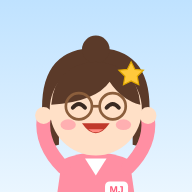
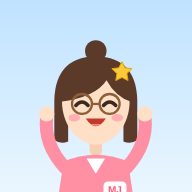
맞힘 팡파르, 박수 소리 제거, MJ선생님 얼굴 갸름하게·머리 작게
Claude-Session: https://claude.ai/code/session_01HtEVcaKpFcXTMcnbUXu1Jp

Changed region(s): [[0.1562, 0.1875, 0.8125, 1.0], [0.5312, 0.9062, 0.7188, 1.0]]

diff --git a/index.html b/index.html
@@ -154,7 +154,7 @@ body{-webkit-tap-highlight-color:transparent;touch-action:manipulation;overscrol
 <script>
 {
 /* ---------- 저장 ---------- */
-const APP_VER='2026.11.17-7';
+const APP_VER='2026.11.17-8';
 const KEY='mjEnglishReview.v1';
 const DEF={settings:{name:'예준',pin:'1234',pass:70,rate:0.85,voice:''},words:{},sessions:[],custom:[],hidden:[],over:{},resume:{}};
 let S;
@@ -183,33 +183,34 @@ const josa=n=>{const c=n.charCodeAt(n.length-1);return (c>=0xAC00&&c<=0xD7A3&&(c
 
 /* ---------- MJ선생님 ---------- */
 function mj(mood='happy',w=150){
-  const eyes={happy:'<path d="M70 98q8-9 16 0M114 98q8-9 16 0" stroke="#3a2a22" stroke-width="5" fill="none" stroke-linecap="round"/>',
-    wow:'<circle cx="78" cy="98" r="7" fill="#3a2a22"/><circle cx="122" cy="98" r="7" fill="#3a2a22"/><circle cx="80" cy="95" r="2.5" fill="#fff"/><circle cx="124" cy="95" r="2.5" fill="#fff"/>',
-    think:'<circle cx="78" cy="99" r="6" fill="#3a2a22"/><circle cx="122" cy="99" r="6" fill="#3a2a22"/><path d="M66 82l20-4M112 78l20 4" stroke="#5B3A29" stroke-width="4" stroke-linecap="round"/>',
-    cheer:'<path d="M70 100q8-10 16 0M114 100q8-10 16 0" stroke="#3a2a22" stroke-width="5" fill="none" stroke-linecap="round"/>',
-    hug:'<path d="M70 98q8 7 16 0M114 98q8 7 16 0" stroke="#3a2a22" stroke-width="5" fill="none" stroke-linecap="round"/>'}[mood];
-  const mouth={happy:'<path d="M86 124q14 14 28 0" stroke="#c0392b" stroke-width="5" fill="#ff8a80" stroke-linecap="round"/>',
-    wow:'<ellipse cx="100" cy="128" rx="9" ry="11" fill="#c0392b"/>',
-    think:'<path d="M90 128h18" stroke="#c0392b" stroke-width="5" stroke-linecap="round"/>',
-    cheer:'<path d="M82 120q18 26 36 0z" fill="#c0392b"/><path d="M90 128q10 8 20 0" fill="#ff8a80"/>',
-    hug:'<path d="M88 124q12 10 24 0" stroke="#c0392b" stroke-width="5" fill="none" stroke-linecap="round"/>'}[mood];
+  const eyes={happy:'<path d="M74 95q8-8 16 0M110 95q8-8 16 0" stroke="#3a2a22" stroke-width="4.5" fill="none" stroke-linecap="round"/>',
+    wow:'<circle cx="82" cy="95" r="6" fill="#3a2a22"/><circle cx="118" cy="95" r="6" fill="#3a2a22"/><circle cx="84" cy="93" r="2" fill="#fff"/><circle cx="120" cy="93" r="2" fill="#fff"/>',
+    think:'<circle cx="82" cy="96" r="5" fill="#3a2a22"/><circle cx="118" cy="96" r="5" fill="#3a2a22"/><path d="M72 79l17-3M111 76l17 3" stroke="#5B3A29" stroke-width="3.5" stroke-linecap="round"/>',
+    cheer:'<path d="M74 97q8-9 16 0M110 97q8-9 16 0" stroke="#3a2a22" stroke-width="4.5" fill="none" stroke-linecap="round"/>',
+    hug:'<path d="M74 94q8 6 16 0M110 94q8 6 16 0" stroke="#3a2a22" stroke-width="4.5" fill="none" stroke-linecap="round"/>'}[mood];
+  const mouth={happy:'<path d="M90 117q10 11 20 0" stroke="#c0392b" stroke-width="4" fill="#ff8a80" stroke-linecap="round"/>',
+    wow:'<ellipse cx="100" cy="121" rx="6.5" ry="8.5" fill="#c0392b"/>',
+    think:'<path d="M93 121h14" stroke="#c0392b" stroke-width="4" stroke-linecap="round"/>',
+    cheer:'<path d="M87 114q13 20 26 0z" fill="#c0392b"/><path d="M93 121q7 5 14 0" fill="#ff8a80"/>',
+    hug:'<path d="M91 117q9 8 18 0" stroke="#c0392b" stroke-width="4" fill="none" stroke-linecap="round"/>'}[mood];
   const up=mood==='cheer'||mood==='wow';
-  const arms=up?'<path d="M58 178q-30-30-26-64" stroke="#FF8FA3" stroke-width="18" fill="none" stroke-linecap="round"/><circle cx="32" cy="110" r="11" fill="#FFE0C7"/><path d="M142 178q30-30 26-64" stroke="#FF8FA3" stroke-width="18" fill="none" stroke-linecap="round"/><circle cx="168" cy="110" r="11" fill="#FFE0C7"/>'
-   :'<path d="M60 176q-16 22-10 46" stroke="#FF8FA3" stroke-width="18" fill="none" stroke-linecap="round"/><circle cx="51" cy="226" r="10" fill="#FFE0C7"/><path d="M140 176q22 12 30 32" stroke="#FF8FA3" stroke-width="18" fill="none" stroke-linecap="round"/><rect x="160" y="200" width="30" height="24" rx="4" fill="#3D8BFF" transform="rotate(-12 175 212)"/><text x="175" y="217" font-size="13" fill="#fff" text-anchor="middle" font-family="Andika,Arial" transform="rotate(-12 175 212)">ABC</text>';
+  const arms=up?'<path d="M60 178q-28-30-24-66" stroke="#FF8FA3" stroke-width="17" fill="none" stroke-linecap="round"/><circle cx="36" cy="108" r="10" fill="#FFE0C7"/><path d="M140 178q28-30 24-66" stroke="#FF8FA3" stroke-width="17" fill="none" stroke-linecap="round"/><circle cx="164" cy="108" r="10" fill="#FFE0C7"/>'
+   :'<path d="M62 178q-16 22-10 46" stroke="#FF8FA3" stroke-width="17" fill="none" stroke-linecap="round"/><circle cx="53" cy="227" r="9.5" fill="#FFE0C7"/><path d="M138 178q22 12 30 32" stroke="#FF8FA3" stroke-width="17" fill="none" stroke-linecap="round"/><rect x="158" y="200" width="30" height="24" rx="4" fill="#3D8BFF" transform="rotate(-12 173 212)"/><text x="173" y="217" font-size="13" fill="#fff" text-anchor="middle" font-family="Andika,Arial" transform="rotate(-12 173 212)">ABC</text>';
   return `<svg width="${w}" height="${w*1.2}" viewBox="0 0 200 240" role="img" aria-label="MJ선생님">
-  <ellipse cx="100" cy="236" rx="60" ry="5" fill="rgba(30,80,140,.15)"/>
-  <path d="M30 100q0-78 70-78t70 78v44q-10 8-22 4V96H52v52q-12 4-22-4z" fill="#5B3A29"/>
-  <path d="M56 168q44-20 88 0l10 70H46z" fill="#FF8FA3"/>
-  <path d="M86 166l14 22 14-22z" fill="#fff"/>
-  <rect x="112" y="196" width="30" height="20" rx="6" fill="#fff"/><text x="127" y="211" font-size="13" text-anchor="middle" fill="#FF5A7A" font-family="Andika,Arial" font-weight="700">MJ</text>
+  <ellipse cx="100" cy="236" rx="56" ry="5" fill="rgba(30,80,140,.15)"/>
+  <path d="M46 98Q44 34 100 33Q156 34 154 98V142Q146 148 136 144V100H64V144Q54 148 46 142Z" fill="#5B3A29"/>
+  <rect x="92" y="140" width="16" height="22" rx="6" fill="#F7CFB2"/>
+  <path d="M58 170q42-18 84 0l10 68H48z" fill="#FF8FA3"/>
+  <path d="M88 166l12 20 12-20z" fill="#fff"/>
+  <rect x="110" y="196" width="30" height="20" rx="6" fill="#fff"/><text x="125" y="211" font-size="13" text-anchor="middle" fill="#FF5A7A" font-family="Andika,Arial" font-weight="700">MJ</text>
   ${arms}
-  <circle cx="100" cy="102" r="60" fill="#FFE0C7"/>
-  <circle cx="100" cy="24" r="18" fill="#5B3A29"/>
-  <path d="M42 96q4-52 58-56 54 4 58 56-24-6-40-30-18 26-76 30z" fill="#5B3A29"/>
-  <path d="M146 40l5 10 11 1-8 8 2 11-10-5-10 5 2-11-8-8 11-1z" fill="#FFC93C" stroke="#E0A800" stroke-width="1.5"/>
+  <path d="M100 44C128 44 144 64 144 92C144 120 126 146 100 148C74 146 56 120 56 92C56 64 72 44 100 44Z" fill="#FFE0C7"/>
+  <circle cx="100" cy="26" r="14" fill="#5B3A29"/>
+  <path d="M54 92Q56 44 100 41Q144 44 146 92Q126 86 114 64Q100 86 54 92Z" fill="#5B3A29"/>
+  <path d="M134 40l4 8 9 1-6.5 6.5 1.5 9-8-4-8 4 1.5-9-6.5-6.5 9-1z" fill="#FFC93C" stroke="#E0A800" stroke-width="1.3"/>
   ${eyes}
-  <circle cx="78" cy="98" r="17" fill="none" stroke="#8B5E3C" stroke-width="3.5"/><circle cx="122" cy="98" r="17" fill="none" stroke="#8B5E3C" stroke-width="3.5"/><path d="M95 98h10" stroke="#8B5E3C" stroke-width="3.5"/>
-  <ellipse cx="64" cy="122" rx="10" ry="7" fill="#FF9AA8" opacity=".7"/><ellipse cx="136" cy="122" rx="10" ry="7" fill="#FF9AA8" opacity=".7"/>
+  <circle cx="82" cy="95" r="13" fill="none" stroke="#8B5E3C" stroke-width="3"/><circle cx="118" cy="95" r="13" fill="none" stroke="#8B5E3C" stroke-width="3"/><path d="M95 95h10" stroke="#8B5E3C" stroke-width="3"/>
+  <ellipse cx="72" cy="113" rx="7.5" ry="5" fill="#FF9AA8" opacity=".7"/><ellipse cx="128" cy="113" rx="7.5" ry="5" fill="#FF9AA8" opacity=".7"/>
   ${mouth}</svg>`;
 }
 const say=(mood,html,w=130)=>`<div class="mjbar">${mj(mood,w)}<div class="bubble" id="bubble">${html}</div></div>`;
@@ -257,14 +258,16 @@ function sfx(type){
   if(type==='no'){tone(392,0,.22,'triangle',.18);tone(330,.2,.32,'triangle',.16);return}
   if(type==='pop'){tone(660,0,.12,'sine',.18);return}
   if(type==='ok'){sparkle();return}
-  if(type==='fan'){fanfare();clap(3,.2);whistle(1.3);return}
+  if(type==='fan'){fanfare();whistle(1.9);sparkle(2.3);return}
 }
-function praise(pct){ // 문장 점수에 따라 단계별 축하
-  if(pct>=90){fanfare();clap(3,.15);whistle(1.25);confetti(120);setTimeout(()=>speak(['Excellent!','Perfect!','Amazing!'][Math.floor(Math.random()*3)],0.9),2300);return 3}
-  if(pct>=70){sparkle();clap(2,.1);confetti(60);setTimeout(()=>speak(['Great job!','Very good!','Well done!'][Math.floor(Math.random()*3)],0.9),1300);return 2}
-  if(pct>=50){sparkle();clap(1,.05);confetti(20);setTimeout(()=>speak('Good try!',0.9),900);return 1}
+function tada(){[[784,0,.12],[1047,.13,.5]].forEach(([f,d,l])=>{tone(f,d,l,'sawtooth',.12);tone(f*2,d,l,'triangle',.04)})}
+function praise(pct){ // 문장 점수에 따라 단계별 축하 (박수 없이)
+  if(pct>=90){fanfare();whistle(1.9);sparkle(2.3);confetti(130);setTimeout(()=>speak(['Excellent!','Perfect!','Amazing!'][Math.floor(Math.random()*3)],0.9),2700);return 3}
+  if(pct>=70){tada();sparkle(.7);confetti(60);setTimeout(()=>speak(['Great job!','Very good!','Well done!'][Math.floor(Math.random()*3)],0.9),1300);return 2}
+  if(pct>=50){sparkle();confetti(20);setTimeout(()=>speak('Good try!',0.9),700);return 1}
   sfx('no');setTimeout(()=>speak("Let's try again!",0.9),700);return 0
 }
+
 
 /* ---------- 미국식 발음 (TTS) ---------- */
 let voices=[];
@@ -465,8 +468,8 @@ function wordStep(){
 }
 function answerM(ok){
   const {u,w}=cur();const R=rec(u.id,w);ses.res[ses.i].m=ok;
-  if(ok){R.mO++;R.wrongM=false;sparkle();clap(2,.05);confetti(60)}else{R.mX++;R.wrongM=true;sfx('no')}
-  R.done=true;R.last=Date.now();save();wordStep();setTimeout(()=>speak(w.word,0.75),ok?1200:250);
+  if(ok){R.mO++;R.wrongM=false;fanfare();confetti(70)}else{R.mX++;R.wrongM=true;sfx('no')}
+  R.done=true;R.last=Date.now();save();wordStep();setTimeout(()=>speak(w.word,0.75),ok?2300:250);
 }
 
 function sentStep(){
@@ -531,7 +534,7 @@ function resultHtml(pct,pass,heard){
 }
 function showRes(pct,pass,heard){
   $('#res').innerHTML=resultHtml(pct,pass,heard);
-  $('#bubble').innerHTML=pct>=90?'와! 미국 사람처럼 말했어! 최고야!':pct>=70?'정말 잘했어! 친구들이 박수 쳐 줘!':pct>=50?'좋아! 조금만 더 또박또박 해 볼까?':'괜찮아! 미국 발음을 한 번 더 듣고, 다시 말해 볼까?';
+  $('#bubble').innerHTML=pct>=90?'와! 미국 사람처럼 말했어! 최고야!':pct>=70?'정말 잘했어! 아주 멋져!':pct>=50?'좋아! 조금만 더 또박또박 해 볼까?':'괜찮아! 미국 발음을 한 번 더 듣고, 다시 말해 볼까?';
   praise(pct);
 }
 function commitS(){

diff --git a/sw.js b/sw.js
@@ -1,6 +1,6 @@
 /* MJ선생님 영어 복습 — 오프라인 저장 (service worker)
    새 단원을 올릴 때 VERSION 숫자만 올리면 탭에서 새 그림까지 받아 둡니다. */
-const VERSION='mj-v7';
+const VERSION='mj-v8';
 const PRECACHE=["./", "index.html", "mjdata/units.js", "manifest.webmanifest", "icon-192.png", "icon-512.png", "mjdata/img/almost-spring/cover.jpg", "mjdata/img/almost-spring/p2.jpg", "mjdata/img/almost-spring/p3.jpg", "mjdata/img/almost-spring/p4.jpg", "mjdata/img/almost-spring/p5.jpg", "mjdata/img/almost-spring/p6.jpg", "mjdata/img/almost-spring/p7.jpg", "mjdata/img/almost-spring/p8.jpg", "mjdata/img/birthday-surprise/cover.jpg", "mjdata/img/birthday-surprise/p2.jpg", "mjdata/img/birthday-surprise/p3.jpg", "mjdata/img/birthday-surprise/p4.jpg", "mjdata/img/birthday-surprise/p5.jpg", "mjdata/img/birthday-surprise/p6.jpg", "mjdata/img/birthday-surprise/p7.jpg", "mjdata/img/birthday-surprise/p8.jpg", "mjdata/img/bubbles/cover.jpg", "mjdata/img/bubbles/p2.jpg", "mjdata/img/bubbles/p3.jpg", "mjdata/img/bubbles/p4.jpg", "mjdata/img/bubbles/p5.jpg", "mjdata/img/bubbles/p6.jpg", "mjdata/img/bubbles/p7.jpg", "mjdata/img/bubbles/p8.jpg"];
 self.addEventListener('install',e=>{e.waitUntil(caches.open(VERSION).then(c=>c.addAll(PRECACHE.map(u=>new Request(u,{cache:'reload'})))).then(()=>self.skipWaiting()))});
 self.addEventListener('activate',e=>{e.waitUntil(caches.keys().then(ks=>Promise.all(ks.filter(k=>k!==VERSION).map(k=>caches.delete(k)))).then(()=>self.clients.claim()))});
